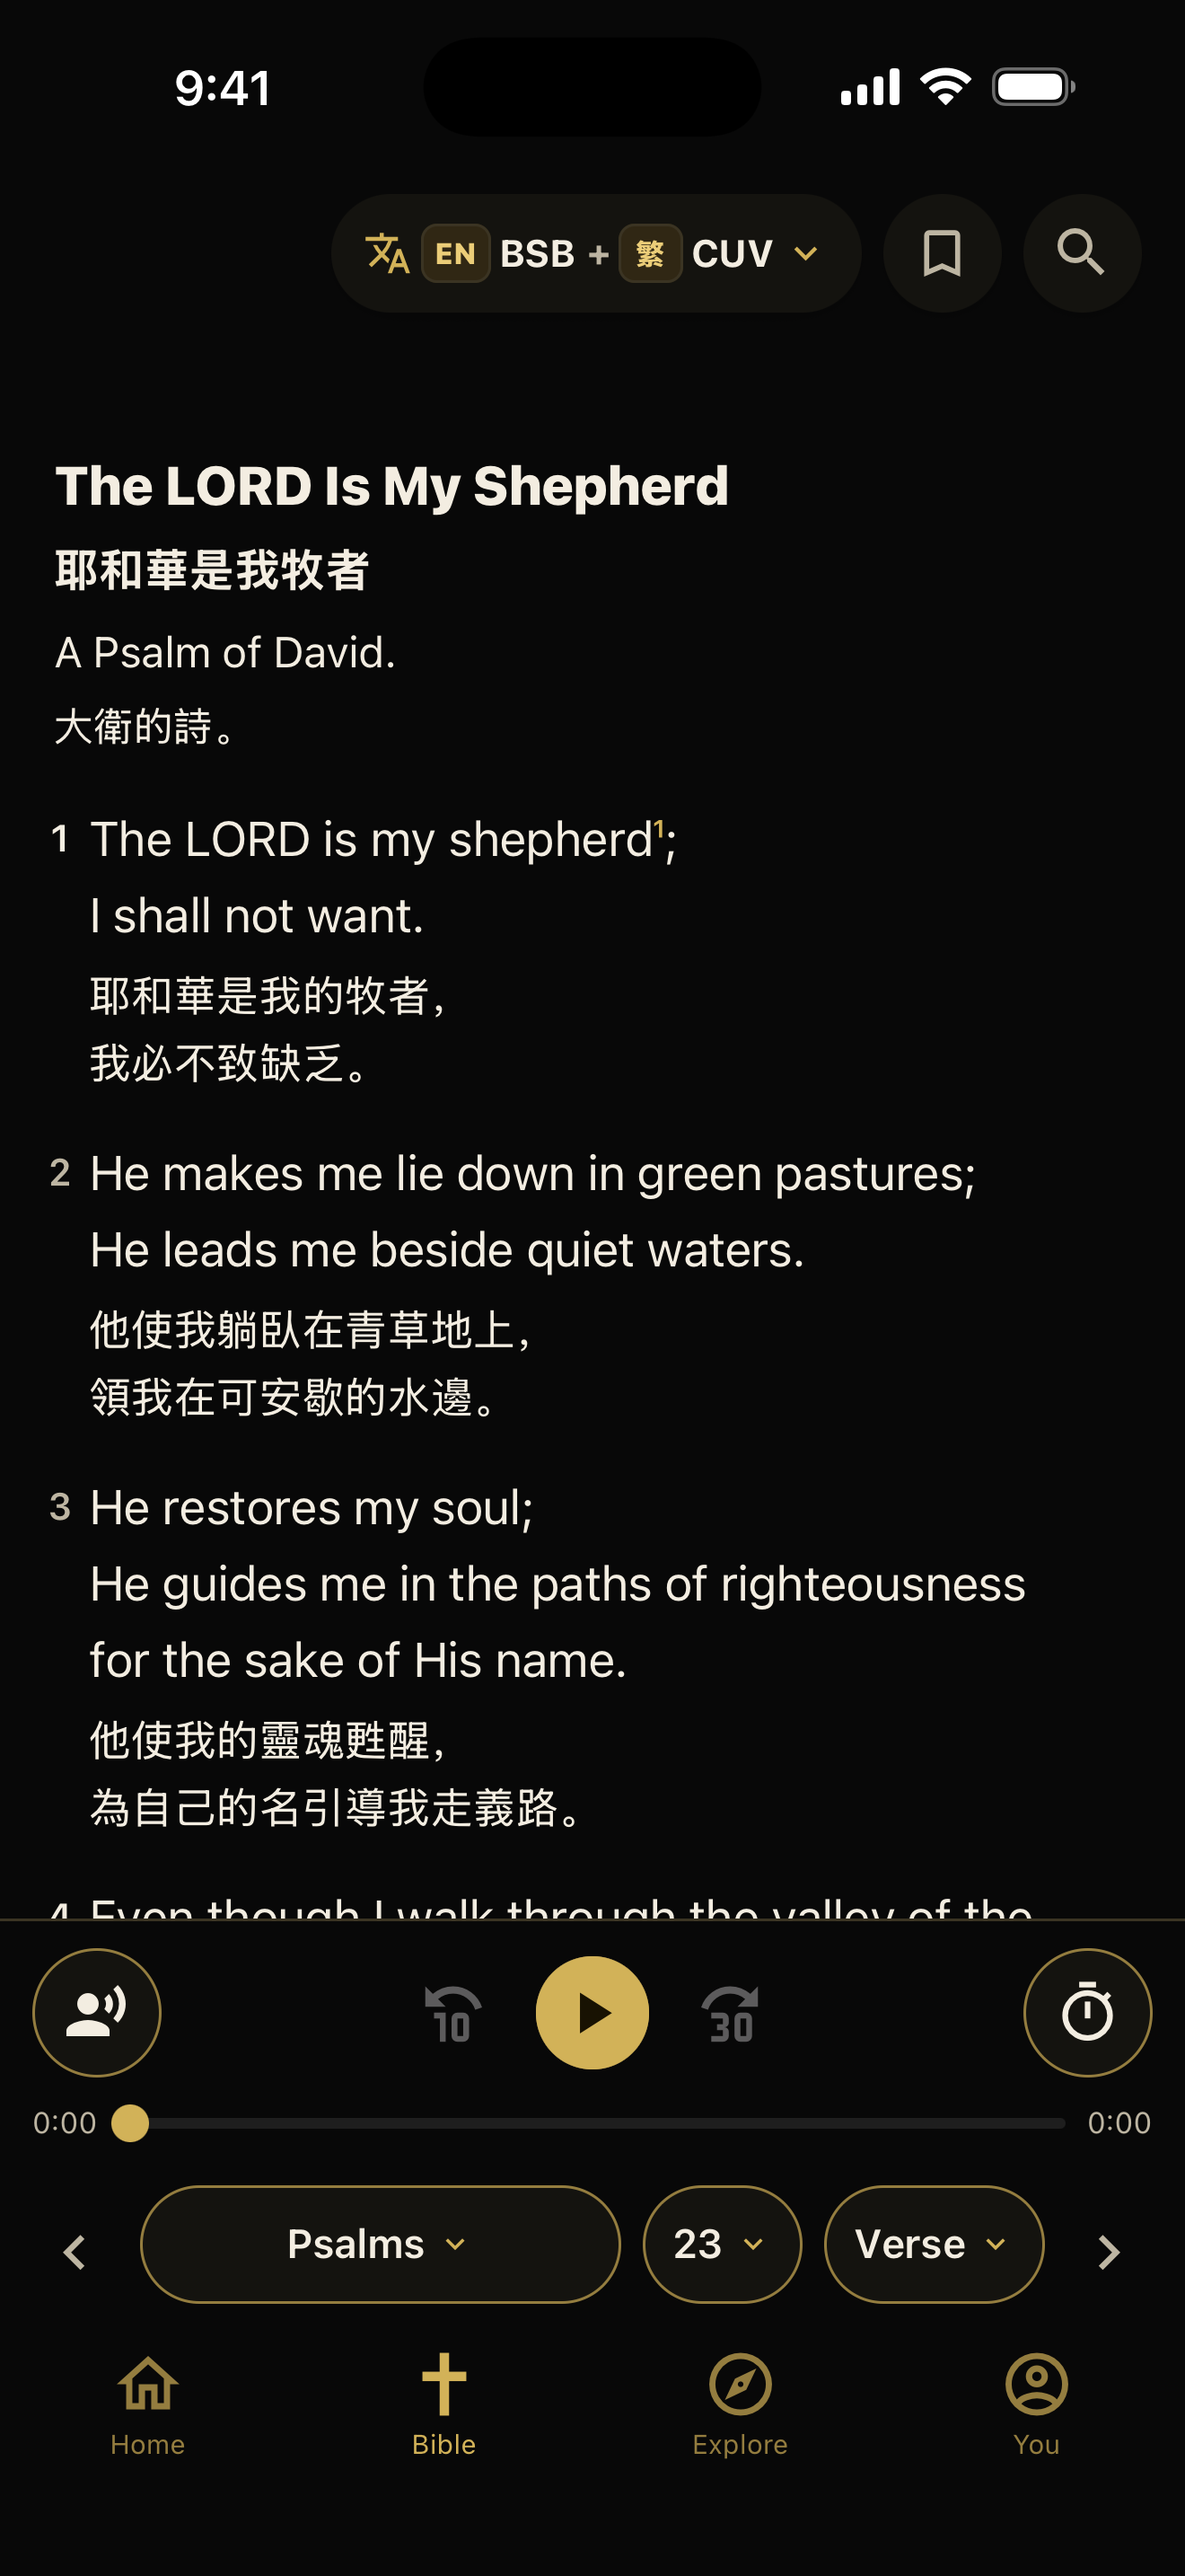
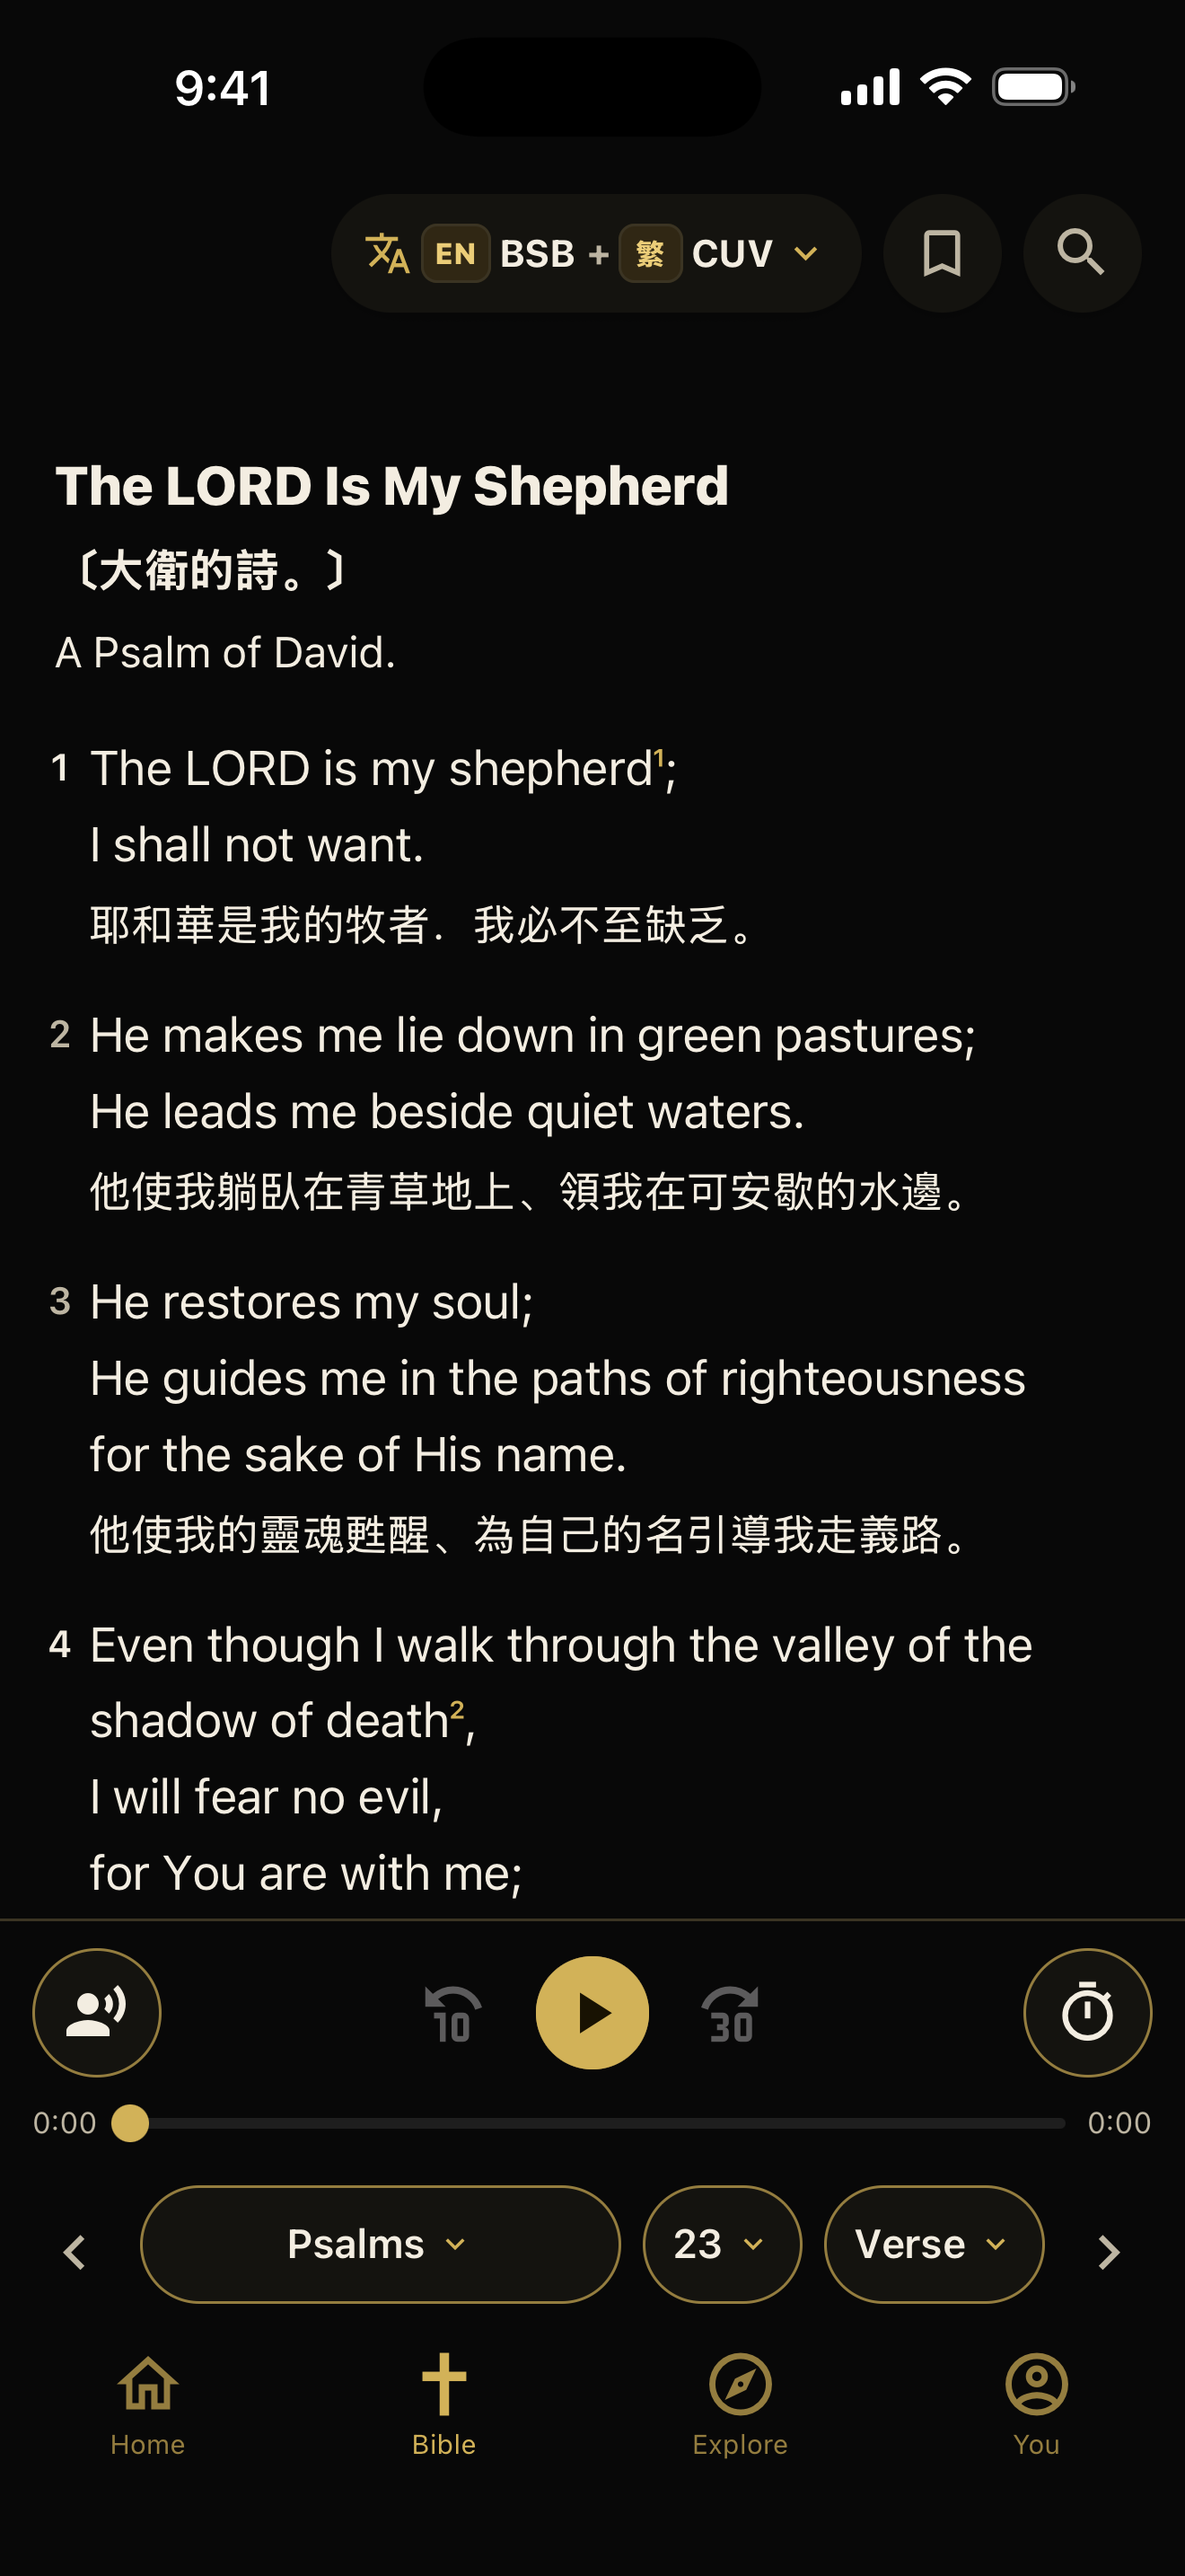
New store screenshots, headers, and Play feature graphic with the 1919 text, and multilingual Play short descriptions (#535)
Related to #517
Part of #529

The last pull request before the 1.4.0 release PR: store screenshots
with the 1919 text.

## Why

The uploaded App Store and Google Play screenshots, and the App Store
headers built from them, showed the 1988 Chinese Union Version (新標點和合本),
which the app no longer has since #519: modern punctuation (，), its
section headings (耶和華是我牧者), and wording such as 因你與我同在. Google Play's
audio settings shot also showed that popup as a bottom sheet, from
before 1.3.2 centred it.

## What changed

- **`docs/store-assets/app-store/en-US/`:** the six iPhone screenshots,
at 1320 × 2868. Home, the Bible in English and Chinese, the Bible with
the Chinese interface, the Bible in the dark theme, Explore (unchanged),
and the Library. The Chinese text now reads 〔大衛的詩。〕 耶和華是我的牧者．我必不至缺乏。
- **`docs/store-assets/google-play/phone/en-US/`:** the six Play phone
screenshots, at 1080 × 1920. Home, the Bible in English and Chinese, the
centred audio settings popup with 國語 and 粵語, the Bible in the dark
theme, Explore, and the Library.
- The old "audio playing" shot is gone, because a key screen can't play
audio.
  - The file names now match the runs' output.
- **`docs/store-assets/app-store/header/`:** the four headers, rebuilt
from the new screenshots with `scripts/make-app-store-headers.cjs`.
- **`docs/store-assets/google-play/feature-graphic.png`:** a new 1024 ×
500 feature graphic.
- The old one, laid out by hand, showed pre-1919 text: 上帝的創造 (the 1919
[…]

diff --git a/docs/store-assets/README.md b/docs/store-assets/README.md
@@ -7,16 +7,17 @@ are captured, their sizes, and what they may show are in
 [Store listings](../operations/store-listing.md#screenshots).
 
 - `google-play/feature-graphic.png`: the 1024 × 500 feature graphic. It shows the app
-  icon, the church's name in English and Traditional Chinese, and two English Bible
-  screenshots in phone frames on the brand blue (`#00405C`): one with pinyin, which is no
-  longer a store screenshot (it's in this folder's git history as `02-bible-pinyin.png`),
-  and `02-bible-audio.png`. An AI assistant laid
-  it out, so declare it as AI-generated in Play Console; see
+  icon, the church's name in English and Traditional Chinese, a line of features, and
+  two of the phone screenshots below in phone frames on the brand blue (`#00405C`): the
+  Bible in the dark theme behind the Bible in English and Chinese.
+  `scripts/make-play-feature-graphic.cjs` builds it from them, so run it again when
+  they change. An AI assistant designed it and wrote that script, so declare it as
+  AI-generated in Play Console; see
   [Store listing assets](../operations/play-console-answers.md#store-listing-assets).
-- `google-play/phone/en-US/`: the six phone screenshots, in upload order: Home, the
-  Bible with audio playing, the audio-language choice with 粵語 (Cantonese) selected,
-  the Bible in the dark theme, Explore, and the Library. The other languages' listings
-  show these too.
+- `google-play/phone/en-US/`: the six phone screenshots, in upload order, at 1080 × 1920:
+  Home, the Bible in English and Chinese, the audio settings with the CUV's audio
+  languages, the Bible in the dark theme, Explore, and the Library. The other languages'
+  listings show these too.
 - `app-store/en-US/`: the six iPhone screenshots, in upload order, at the 6.9-inch size
   (1320 × 2868): Home, the Bible in English and Chinese, the Bible in Chinese and
   English with the Chinese interface, the Bible in the dark theme, Explore, and the
@@ -42,27 +43,27 @@ are captured, their sizes, and what they may show are in
   ever deleted, upload this file again and update the link; see
   [Foreground service](../operations/play-console-answers.md#foreground-service).
 
-The Play app icon is `public/icon-512x512.png`, so it isn't copied here. The App Store
-screenshots here are from the 0.43.0 release PR's **iOS key screens** run on September
-30, 2026, before the audio button showed the audio language.
+The Play app icon is `public/icon-512x512.png`, so it isn't copied here. The screenshots
+and headers here are from the key-screen runs for 1.4.0 on October 28, 2026, the first
+with the 1919 Chinese Union Version: [iOS](https://github.com/CodeSammich/sda-church-app/actions/runs/40628414994)
+and [Android](https://github.com/CodeSammich/sda-church-app/actions/runs/40632080157). The
+feature graphic was built from the Google Play ones.
 
-Each run also saves numbered App Store copies in its screenshots download's `screens/app-store/`,
-from the `appStore` lists in `test/screens/screens.json`. They aren't the set uploaded
-here:
+Each run also saves numbered App Store copies in its screenshots download's
+`screens/app-store/`, from the `appStore` lists in `test/screens/screens.json`:
 
-- `screens/app-store/en-US/`: Home, the Bible in English and Chinese, the Bible with
-  pinyin, Explore, the Library, and the Bible in the dark theme. The uploaded set has
-  the Chinese-interface Bible (`bible-cuv-zh`) in place of the pinyin one, and the dark
-  Bible fourth.
+- `screens/app-store/en-US/`: the uploaded set, in upload order: Home, the Bible in
+  English and Chinese, the Bible with the Chinese interface (`bible-cuv-zh`), the Bible
+  in the dark theme, Explore, and the Library.
 - `screens/app-store/zh-Hant/`: seven shots with the Chinese interface, which aren't
   uploaded.
 
-For a new App Store set, take the matching shots from the run's `screens/ios/` and
-number them in the uploaded order, or change `appStore` first.
-
 Each run saves numbered Google Play copies too, in `screens/google-play/en-US/` and
-`screens/google-play/zh-TW/`, from the `googlePlay` lists: the same shots as the App
-Store's, from the Android emulator, at 1080 × 1920 and without transparency (#372).
+`screens/google-play/zh-TW/`, from the `googlePlay` lists, on an emulator of Google
+Play's size (1080 × 1920), without transparency (#372). `en-US` is the uploaded set, in
+upload order: Home, the Bible in English and Chinese, the audio settings with the CUV's
+audio languages (`bible-audio-settings-default`), the Bible in the dark theme, Explore,
+and the Library. So for a new set, copy a run's two `en-US` folders here.
 
 **No transparency.** Both stores reject screenshots with an alpha channel: Google Play
 takes JPEG or 24-bit PNG, and App Store Connect refuses images with transparency. The

diff --git a/docs/operations/store-listing.md b/docs/operations/store-listing.md
@@ -62,7 +62,7 @@ Official church app
 **Short description** (Google Play, up to 80)
 
 ```text
-Bilingual Bible with pinyin and audio, plus our weekly bulletin and church life.
+Multilingual Bible with pinyin and audio, our weekly bulletin, and church life.
 ```
 
 **Promotional text** (App Store, up to 170; can change without a new version)
@@ -136,7 +136,7 @@ App Store: Chinese (Traditional). Google Play: Chinese (Traditional), `zh-TW`, a
 **Short description** (Google Play, up to 80)
 
 ```text
-中英雙語聖經，附拼音與有聲朗讀，並提供每週週報與教會生活資訊。
+多語言聖經（中文、英文、西班牙文），附拼音與有聲朗讀，並提供每週週報與教會生活資訊。
 ```
 
 **Promotional text** (App Store, up to 170; can change without a new version)
@@ -207,7 +207,7 @@ App Store: Chinese (Simplified). Google Play: Chinese (Simplified), `zh-CN`. Gen
 **Short description** (Google Play, up to 80)
 
 ```text
-中英双语圣经，附拼音与有声朗读，并提供每周周报与教会生活信息。
+多语言圣经（中文、英文、西班牙文），附拼音与有声朗读，并提供每周周报与教会生活信息。
 ```
 
 **Promotional text** (App Store, up to 170; can change without a new version)
@@ -283,7 +283,7 @@ App oficial de la iglesia
 **Short description** (Google Play, up to 80)
 
 ```text
-Biblia bilingüe con pinyin y audio, más el boletín semanal y la vida de iglesia.
+Biblia multilingüe con pinyin y audio, el boletín semanal y la vida de iglesia.
 ```
 
 **Promotional text** (App Store, up to 170; can change without a new version)
@@ -395,7 +395,9 @@ transparency both stores reject. Replace them there whenever the stores get new 
 
 - **Google Play:** 2 to 8 phone screenshots. The long side can be at most twice the short
   side, so capture at 1080 × 1920: on an emulator, run `adb shell wm size 1080x1920`, and
-  turn on Android's demo mode for a clean status bar. Play also needs a 1024 × 500 feature
+  turn on Android's demo mode for a clean status bar. The current set comes from the
+  **Android key screens** run's Google Play batch (`screens/google-play/en-US/`), which
+  does both. Play also needs a 1024 × 500 feature
   graphic, described in [Store listing assets](play-console-answers.md#store-listing-assets),
   and the 512 × 512 icon (`public/icon-512x512.png`).
 - **App Store:** iPhone 6.9-inch screenshots only. The app is iPhone-only

diff --git a/docs/operations/play-console-answers.md b/docs/operations/play-console-answers.md
@@ -154,15 +154,17 @@ News & magazines, Events (which means ticket sales), and Music & audio.
   [Store listings](store-listing.md#english).
 - **App icon:** `public/icon-512x512.png`, the same logo as the app's launcher icon.
 - **Feature graphic:** 1024 × 500. It shows the logo, the church's name in English and
-  Chinese, "Bilingual Bible · Audio · Weekly bulletin · Hymns", and the pinyin and
-  audio screenshots in phone frames on the brand blue (`#00405C`).
+  Chinese, "Multilingual Bible · Audio · Weekly bulletin · Hymns", and two of the phone
+  screenshots in phone frames on the brand blue (`#00405C`): the Bible in the dark theme
+  behind the Bible in English and Chinese. `scripts/make-play-feature-graphic.cjs`
+  builds it from the phone screenshots, so run it again when they change.
 - **Phone screenshots:** one set of six, which every listing language shows, captured
   as [Store listings](store-listing.md#screenshots) describes. The first submission had
   eight in English and four in Traditional Chinese; this set replaced them on
   September 30, 2026.
 - **AI-generated declaration:** Play Console asks, for each image, whether AI generated
-  or edited it. The feature graphic: yes, because an AI assistant laid it out, though no
-  image generator made any of its pixels. The icon and screenshots: no; they're the
+  or edited it. The feature graphic: yes, because an AI assistant designed its layout and
+  wrote the script that builds it, though no image generator made any of its pixels. The icon and screenshots: no; they're the
   official logo and real captures of the app.
 
 Copies of the feature graphic and screenshots are in
